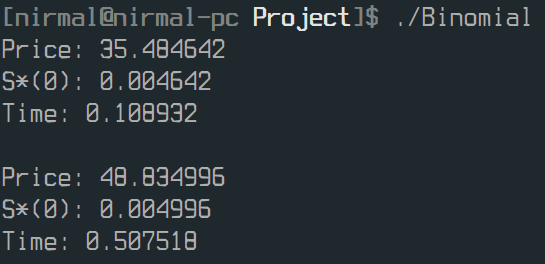
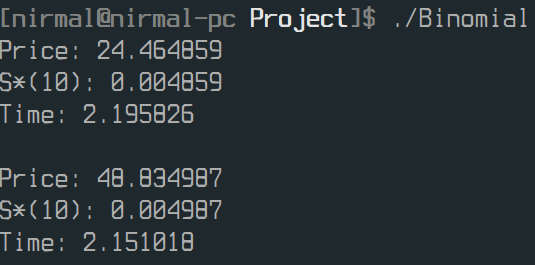
fixed

diff --git a/Project/Binomial.c b/Project/Binomial.c
@@ -105,15 +105,15 @@ int main(void) {
 	clock_t begin, end;
 
 	/* Prelim 1 */
-	stock_price = 135.48;
+	stock_price = 75.54;
 	strike_price = 100;
 	time = (double) 10/12;
 	begin = clock();
-	option_price = binomial('C', strike_price, time, stock_price, 0.2, 0.05, 0.04, 5000, 'E');
+	option_price = binomial('P', strike_price, time, stock_price, 0.2, 0.05, 0.04, 5000, 'A');
 	end = clock();
 	
 	printf("Price: %f\n", option_price);
-	printf("S*(0): %f\n", option_price - (stock_price - strike_price));
+	printf("S*(10): %f\n", option_price - (strike_price - stock_price));
 	printf("Time: %f\n\n", (double)(end-begin) / CLOCKS_PER_SEC);
 
 	/* Prelim 2 */
@@ -121,11 +121,11 @@ int main(void) {
 	strike_price = 100;
 	time = (double) 10/12;
 	begin = clock();
-	option_price = binomial('C', strike_price, time, stock_price, 0.2, 0.05, 0.04, 3000, 'A');
+	option_price = binomial('C', strike_price, time, stock_price, 0.2, 0.05, 0.04, 5000, 'A');
 	end = clock();
 	
 	printf("Price: %f\n", option_price);
-	printf("S*(0): %f\n", option_price - (stock_price - strike_price));
+	printf("S*(10): %f\n", option_price - (stock_price - strike_price));
 	printf("Time: %f\n\n", (double)(end-begin) / CLOCKS_PER_SEC);
 	return 0;
 }
